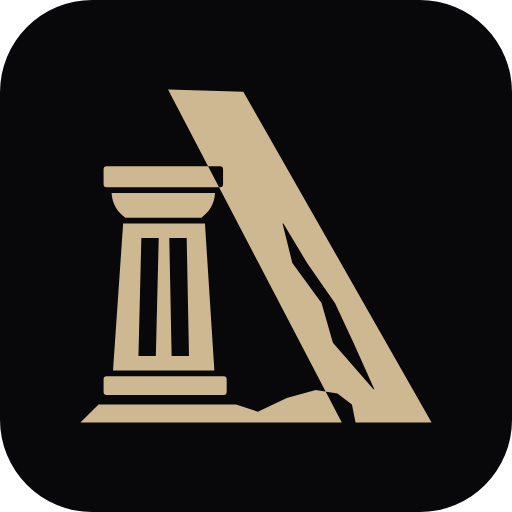
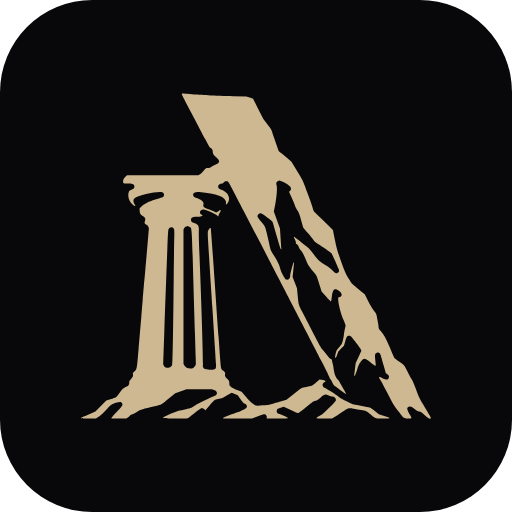
Знак Askesis: вектор снят с исходного эскиза, а не перерисован
Полный знак - трассировка присланного эскиза (potrace), убран только
мелкий шум. Упрощённый для 16–40 px - тот же контур с залитыми узкими
трещинами и бороздками и без летящих осколков. Favicon и иконки PWA
пересобраны из него.

diff --git a/client/src/components/BrandMark.jsx b/client/src/components/BrandMark.jsx
@@ -1,6 +1,7 @@
 // Знак Askesis: дорическая колонна и наклонённая треснувшая глыба вместе
 // складываются в «А», у основания камни. Одноцветный, цвет берёт из
-// currentColor. Пути сгенерированы по эскизу (координаты исходника 1254 px).
+// currentColor. Пути — трассировка исходного эскиза (potrace, координаты
+// исходника 1254 px), упрощённый — тот же контур с залитыми узкими щелями.
 //
 // full — полный знак, от 48 px и крупнее (вход, лендинг, подвал);
 // simple — упрощённый для 16–40 px: без осколков и мелких трещин, детали
@@ -8,12 +9,12 @@
 
 const MARKS = {
   full: {
-    viewBox: '130 150 1000 940',
-    d: 'M360 212L404 228L436 272L394 254ZM314 292L368 298L384 324L338 318ZM267 396H529Q534 396 534 401V417Q534 422 529 422H267Q262 422 262 417V401Q262 396 267 396ZM276 430H558C556 452 542 470 524 484H318C300 470 286 452 276 430ZM296 444Q417 452 538 444L533 454Q417 462 301 454ZM311 463Q417 470 523 463L516 472Q417 478 318 472ZM318 490H522Q526 490 526 494V498Q526 502 522 502H318Q314 502 314 498V494Q314 490 318 490ZM323 508H517Q520 508 520 511V519Q520 522 517 522H323Q320 522 320 519V511Q320 508 323 508ZM322 530L518 530L538 934L302 934ZM345.5 560.4225742574257Q345.5 552 353.9 552Q362.4 552 362.4 560.4225742574257L352 902.0625742574257Q352 912 342.1 912Q332.1 912 332.1 902.0625742574257ZM378.5 560.4225742574257Q378.5 552 387 552Q395.4 552 395.4 560.4225742574257L391 902.0625742574257Q391 912 381 912Q371.1 912 371.1 902.0625742574257ZM411.6 560.4225742574257Q411.6 552 420 552Q428.4 552 428.4 560.4225742574257L429.9 902.0625742574257Q429.9 912 420 912Q410.1 912 410.1 902.0625742574257ZM444.6 560.4225742574257Q444.6 552 453 552Q461.5 552 461.5 560.4225742574257L468.9 902.0625742574257Q468.9 912 459 912Q449 912 449 902.0625742574257ZM477.6 560.4225742574257Q477.6 552 486.1 552Q494.5 552 494.5 560.4225742574257L507.9 902.0625742574257Q507.9 912 497.9 912Q488 912 488 902.0625742574257ZM297 938H543Q548 938 548 943V948Q548 953 543 953H297Q292 953 292 948V943Q292 938 297 938ZM282 957H558Q562 957 562 961V973Q562 977 558 977H282Q278 977 278 973V961Q278 957 282 957ZM602 180L663.2 286.6L663.6 299.5L686 330.8L785.6 499.7L787.4 517.2L813.4 552.9L918.2 730.6L918.8 748.1L952 792.7L1040.6 943.7L1112 1068L912 1068L765.9 798.6L762.9 780.8L736.7 744.7L571.1 439.4L563.8 412.8L541.9 385.5L425 170ZM576.8 191.5L567.5 229.8L577.7 265L564.8 307.8L573.7 351.9L570.2 386.7L572 386.8L580.1 352.1L575.6 308.4L584.9 265.4L576.4 230.3L578.6 191.6ZM587.3 307.2L622.1 325.3L642.3 323.6L685.1 355.5L686.6 358.1L648.3 334.3L630.1 339.6L589.3 310.7ZM680.5 443.6L690.8 487.6L711.7 549.7L752.5 594.8L762.6 647.9L819.3 710.9L830.2 773L883.2 827L898.6 889.3L950.1 943L968.2 996.5L1004.5 1027.8L1006.5 1027.9L999.9 996.7L973.7 943.2L941.6 889.7L910.3 827.3L876.4 773.8L844.1 711.5L800.4 648.9L773.1 595.4L741.5 550.6L707.4 488.2L682.4 443.6ZM749.2 725.9L784.1 744.7L803.2 741.5L834.1 762.9L835.6 765.6L808.2 750.5L790 755.5L750.6 728.6ZM140 1070L196 1034L240 1004L282 984L560 984L600 1008L628 1034L660 1018L712 1000L764 974L806 960L836 972L868 994L900 1020L918 1070ZM200 1056L262 1022L300 1012L252 1040ZM330 1048L402 1004L450 996L380 1040ZM470 1056L520 1020L560 1012L530 1050ZM690 1060L740 1024L790 1004L760 1040ZM800 1056L838 1012L858 1006L836 1052Z',
+    viewBox: '122 112 1015 1015',
+    d: 'M146.0 1067.7C146.0 1067.0 147.9 1065.7 150.2 1064.8C152.6 1063.9 161.5 1060.2 170.0 1056.5L185.5 1049.8L200.5 1034.5L215.5 1019.2L227.0 1015.6C243.8 1010.2 243.2 1010.6 249.5 1001.7C260.1 986.7 261.6 985.3 269.8 981.4L277.5 977.7L306.5 977.9C336.0 978.1 341.5 978.4 343.8 980.3C344.7 981.0 346.2 980.9 348.8 979.9C353.1 978.3 487.2 978.4 505.5 980.0C544.1 983.6 555.1 984.2 557.9 983.1C560.4 982.0 561.3 982.2 566.6 985.4C569.8 987.4 573.0 989.0 573.5 989.0C574.0 989.0 578.0 990.4 582.2 992.1L589.9 995.2L600.2 1007.3C611.6 1020.7 612.7 1021.8 622.0 1029.1L628.5 1034.2L633.5 1033.6C636.2 1033.2 644.6 1032.7 652.0 1032.3C660.0 1032.0 666.5 1031.2 668.1 1030.4C669.5 1029.7 680.4 1026.5 692.2 1023.2L713.7 1017.3L733.1 1001.8C757.9 982.0 755.3 983.4 770.8 981.2C780.4 979.8 784.7 978.7 786.3 977.3C787.5 976.3 792.2 972.1 796.8 968.1L805.1 960.7L809.7 961.4C817.5 962.4 822.1 964.0 821.8 965.5C821.3 967.5 810.9 975.0 808.5 975.0C807.4 975.0 804.1 976.1 801.2 977.5C798.2 978.9 795.2 980.0 794.4 980.0C793.6 980.0 793.0 980.6 793.0 981.3C793.0 982.3 796.8 982.9 807.6 983.8L822.1 984.9L832.1 991.2C837.6 994.7 844.8 999.4 848.0 1001.8C851.2 1004.1 854.2 1006.0 854.6 1006.0C855.1 1006.0 857.0 1007.4 858.9 1009.2C860.7 1010.9 868.1 1015.2 875.3 1018.7C882.5 1022.2 889.7 1026.1 891.4 1027.3C893.2 1028.6 896.7 1029.7 900.0 1030.1C903.0 1030.4 913.1 1032.3 922.5 1034.2C931.9 1036.2 941.2 1038.1 943.2 1038.4C945.9 1038.9 950.1 1041.6 958.1 1048.2L969.2 1057.2L984.1 1061.8C1004.7 1068.0 1004.2 1069.0 980.4 1069.0C959.0 1069.0 961.4 1069.8 946.3 1057.5L935.0 1048.2L925.2 1046.5C919.9 1045.6 909.5 1043.8 902.1 1042.4C885.0 1039.3 885.5 1039.3 879.0 1043.7C876.0 1045.8 865.9 1052.3 856.6 1058.2L839.8 1069.0L818.4 1069.0C793.2 1069.0 792.8 1068.7 805.8 1061.5C813.4 1057.2 817.2 1053.9 835.9 1035.2C847.8 1023.3 856.9 1013.5 856.4 1013.1C855.4 1012.1 841.9 1008.0 839.8 1008.0C839.1 1008.0 834.5 1006.4 829.6 1004.5C819.3 1000.5 820.2 1000.2 808.9 1010.1C801.2 1016.9 796.0 1020.0 792.2 1020.0C790.0 1020.0 788.8 1020.9 766.3 1039.1C757.1 1046.6 748.5 1053.3 747.2 1053.9C745.2 1055.0 742.7 1054.0 725.6 1045.5L706.3 1035.9L696.4 1039.5C691.0 1041.5 682.9 1044.5 678.5 1046.2C674.1 1047.8 665.8 1050.9 660.0 1053.0C654.2 1055.1 642.5 1059.5 634.0 1062.9L618.6 1069.0L578.3 1069.0C534.3 1069.0 531.9 1068.6 544.8 1064.1C548.5 1062.8 557.6 1059.4 565.0 1056.5C572.4 1053.6 580.3 1051.0 582.4 1050.7C584.5 1050.4 587.3 1049.1 588.6 1047.9C590.1 1046.5 595.3 1044.5 602.7 1042.5C610.6 1040.4 614.6 1038.9 614.8 1037.9C615.0 1036.9 611.8 1034.6 605.1 1031.2C594.6 1025.6 592.5 1023.7 584.3 1011.8L579.2 1004.3L570.9 1001.0L562.7 997.7L554.6 1002.0C550.1 1004.4 544.2 1007.8 541.5 1009.5C538.8 1011.3 534.9 1013.0 532.9 1013.3C530.9 1013.6 525.6 1014.8 521.2 1016.0L513.1 1018.2L501.5 1032.1C487.6 1048.7 485.7 1049.9 490.6 1038.9C494.7 1029.8 493.9 1029.8 478.3 1039.9C473.3 1043.2 463.3 1050.6 456.3 1056.3C449.2 1062.0 442.4 1067.2 441.3 1067.9C438.0 1069.6 372.0 1069.5 372.0 1067.7C372.0 1066.4 400.3 1051.9 402.7 1052.0C403.4 1052.0 406.8 1050.9 410.2 1049.6C413.7 1048.3 423.2 1045.8 431.5 1044.1C447.7 1040.6 450.6 1039.4 465.0 1030.3C475.0 1023.9 496.8 1013.4 513.4 1006.9C518.9 1004.8 525.1 1001.8 527.2 1000.4C531.1 997.7 532.2 995.0 529.5 995.0C528.6 995.0 523.1 993.4 517.1 991.5L506.3 988.0L471.3 988.0L436.3 988.0L430.2 990.5C426.8 991.9 420.3 994.1 415.6 995.4L407.2 997.9L388.8 1013.3C378.8 1021.7 369.5 1029.2 368.3 1029.8C366.3 1030.9 330.2 1039.7 316.2 1042.5C312.6 1043.2 308.9 1044.7 307.6 1045.9C304.9 1048.4 290.0 1057.0 288.3 1057.0C287.6 1057.0 287.0 1056.6 287.0 1056.1C287.0 1054.3 304.9 1035.3 311.9 1029.7C318.2 1024.5 319.6 1022.8 323.9 1014.2C326.6 1008.9 332.0 999.8 335.9 994.1C339.8 988.3 342.8 983.4 342.6 983.2C342.0 982.7 338.0 984.9 334.0 988.0C332.1 989.5 327.7 992.4 324.2 994.5C318.0 998.1 310.9 1007.0 308.0 1014.6C306.7 1017.9 291.3 1044.8 288.6 1048.5C287.4 1050.2 284.9 1054.1 283.0 1057.4C280.8 1061.4 278.3 1064.1 275.1 1066.1L270.5 1069.0L250.0 1068.8C235.0 1068.6 229.5 1068.2 229.5 1067.3C229.5 1066.7 241.5 1053.8 256.3 1038.6C271.0 1023.5 282.6 1010.9 282.0 1010.5C281.5 1010.2 277.8 1011.3 273.8 1013.1C269.8 1014.8 264.8 1016.9 262.7 1017.6C260.5 1018.4 257.2 1019.9 255.2 1020.9C253.1 1021.9 248.4 1023.5 244.6 1024.5C232.3 1027.5 229.3 1029.5 216.9 1043.0C205.8 1055.0 200.7 1059.6 191.1 1066.0L186.7 1069.0L166.3 1069.0C150.4 1069.0 146.0 1068.7 146.0 1067.7ZM659.0 1067.7C659.0 1066.8 665.0 1064.5 675.9 1061.1L692.9 1055.9L700.2 1058.9C725.4 1069.1 725.6 1069.0 688.5 1069.0C664.5 1069.0 659.0 1068.8 659.0 1067.7ZM1038.2 1067.2C1036.0 1065.4 1029.0 1056.7 1025.0 1051.0C1023.7 1049.1 1019.9 1044.2 1016.7 1040.2C1013.4 1036.2 1007.8 1027.2 1004.2 1020.2C985.3 983.4 976.8 967.3 973.1 961.6C970.0 956.5 969.2 954.0 971.0 954.0C971.5 954.0 981.9 958.7 994.2 964.4C1006.5 970.1 1017.6 975.1 1019.0 975.5C1023.4 976.9 1034.6 982.8 1036.0 984.5C1036.8 985.5 1040.9 988.9 1045.1 992.1C1051.6 997.0 1053.4 999.1 1057.0 1005.7C1059.4 1010.0 1062.5 1015.3 1064.0 1017.5C1068.1 1023.6 1081.2 1049.1 1080.6 1049.7C1079.7 1050.6 1078.2 1049.6 1059.0 1036.1C1039.5 1022.4 1034.5 1019.2 1033.5 1020.2C1033.2 1020.5 1037.1 1027.9 1042.3 1036.6C1057.8 1062.7 1059.8 1066.4 1059.3 1067.7C1058.5 1069.9 1040.8 1069.5 1038.2 1067.2ZM1102.4 1065.2C1088.8 1054.7 1083.4 1046.2 1074.5 1021.5C1069.7 1008.1 1061.1 991.3 1056.9 987.1C1053.9 984.2 1041.4 975.8 1028.7 968.3C1013.1 959.1 990.6 945.0 989.3 943.7C988.7 943.0 985.0 931.0 981.0 917.0C977.1 903.0 973.4 890.5 972.7 889.4C966.7 878.8 952.5 855.9 951.4 854.9C948.8 852.7 948.8 854.8 951.4 860.2C953.3 864.1 954.4 869.4 955.9 880.5C960.2 913.1 961.1 922.3 960.2 923.2C959.3 924.1 948.2 916.1 934.9 904.8C931.8 902.2 929.0 900.0 928.7 900.0C928.4 900.0 924.9 904.3 921.0 909.5L913.9 919.0L908.8 935.0C905.6 945.0 903.2 951.0 902.3 951.0C900.6 951.0 900.6 951.6 903.1 932.1L905.1 915.5L913.1 898.6C917.4 889.3 921.0 881.2 921.0 880.6C921.0 877.7 887.1 832.8 885.2 833.2C883.5 833.5 881.4 839.1 876.3 855.5L872.7 867.5L864.9 875.5L857.1 883.5L854.0 892.2C852.0 897.6 850.3 901.0 849.4 901.0C847.6 901.0 847.6 899.8 849.5 890.8C851.7 880.3 851.5 880.6 858.7 872.2C862.3 868.0 865.9 863.5 866.7 862.3C868.5 859.6 871.6 846.5 872.4 838.0C872.8 834.4 874.0 826.9 875.2 821.3L877.3 811.1L874.7 804.3C873.3 800.6 869.8 791.4 867.0 784.1C864.1 776.7 861.2 767.4 860.5 763.6C857.5 747.6 855.8 734.8 856.7 733.9C857.2 733.4 865.6 739.1 877.1 748.0L896.5 762.9L904.8 780.2C909.4 789.7 914.5 801.1 916.1 805.5C917.8 809.9 920.2 815.1 921.5 817.0C922.8 818.9 925.2 823.5 926.9 827.2C929.6 833.3 932.0 835.9 932.0 832.8C932.0 831.6 929.1 815.2 926.0 799.3C923.1 784.3 923.2 784.1 932.4 792.6C947.0 806.0 951.0 809.5 958.9 815.6C963.5 819.1 967.8 822.0 968.5 822.0C970.3 822.0 975.1 827.6 983.0 839.0C989.3 848.1 991.8 853.1 1001.1 875.5L1011.9 901.5L1022.7 909.3C1040.8 922.2 1039.6 920.9 1047.7 937.4C1051.7 945.7 1057.1 955.7 1059.5 959.5C1062.5 964.1 1066.9 974.3 1072.4 989.1C1079.6 1008.3 1082.2 1014.0 1089.7 1026.6C1094.6 1034.8 1100.1 1044.2 1102.0 1047.5C1103.9 1050.8 1107.2 1056.4 1109.5 1060.0C1111.8 1063.6 1113.5 1067.1 1113.2 1067.8C1112.4 1070.2 1107.3 1069.0 1102.4 1065.2ZM863.0 990.4C854.5 984.0 846.9 978.6 846.3 978.3C845.6 978.0 836.2 960.4 825.4 939.1C806.0 901.1 776.4 843.8 753.7 800.3C747.3 788.2 721.0 737.3 695.2 687.3C669.4 637.4 645.7 591.5 642.5 585.5C639.3 579.5 628.8 559.2 619.0 540.5C552.0 412.1 536.0 381.1 536.0 379.4C536.0 377.8 538.1 377.5 539.5 378.9C540.1 379.4 545.7 382.7 552.2 386.2L563.8 392.6L575.2 405.5C592.6 425.2 593.3 424.2 578.4 401.1L568.6 385.8L556.9 377.7C550.5 373.2 543.3 368.1 540.8 366.4C537.2 363.9 535.9 362.1 534.5 358.1L532.8 353.0L530.1 353.2C525.6 353.5 511.8 341.2 510.4 335.5C509.1 330.2 513.9 311.4 517.1 309.4C518.2 308.7 530.9 320.3 532.8 323.7C534.2 326.2 534.8 326.4 536.7 325.2C537.6 324.6 536.1 320.8 531.2 311.3L524.5 298.2L526.9 288.8C531.0 273.1 531.6 272.1 546.1 263.1C566.4 250.3 568.6 248.5 574.7 239.6C586.7 222.2 593.5 213.0 594.9 212.5C596.5 211.9 611.6 221.2 617.5 226.4C634.7 241.7 636.0 241.9 627.1 227.9C619.3 215.5 617.4 213.3 613.5 211.2C611.7 210.3 607.2 206.7 603.5 203.3L596.8 197.1L597.5 192.0C597.9 189.0 597.8 187.0 597.2 187.0C595.4 187.0 589.1 195.6 576.6 215.2C569.9 225.8 562.9 235.9 561.3 237.5C558.7 240.2 549.1 246.3 534.8 254.5C532.2 256.0 528.5 259.3 526.5 262.1C521.7 268.8 520.6 268.5 511.1 258.1L502.9 249.2L496.0 232.1C487.1 210.1 488.6 212.3 477.7 205.2C472.6 201.8 467.3 197.6 466.1 195.9C464.5 193.8 463.5 193.2 462.7 193.8C461.9 194.5 459.1 193.2 454.0 189.9C444.4 183.5 439.0 180.7 438.2 181.5C437.8 181.9 438.3 182.8 439.3 183.5C441.0 184.7 452.0 194.4 470.9 211.1L479.5 218.8L485.9 236.3L492.2 253.8L498.7 261.1C508.6 272.4 514.0 280.1 514.0 283.0C514.0 286.9 511.2 299.5 509.1 304.7C508.1 307.4 506.7 312.1 506.0 315.3C505.0 319.6 504.3 321.0 503.1 320.8C502.2 320.6 497.2 312.2 491.2 300.5C480.3 279.4 458.3 237.5 436.8 197.2C429.5 183.7 424.1 172.3 424.4 171.5C425.0 169.7 425.1 169.7 446.0 171.6C455.1 172.4 463.4 173.1 464.5 173.1C465.6 173.2 480.4 174.1 497.5 175.2C514.5 176.3 545.2 177.4 565.5 177.7L602.6 178.3L612.0 181.4L621.4 184.5L635.6 212.7L649.8 240.9L660.9 255.1L671.9 269.3L675.8 281.4C678.0 288.1 682.3 300.7 685.5 309.5C688.6 318.3 691.6 326.8 692.0 328.3C693.2 332.0 694.8 334.0 696.9 334.0C697.8 334.0 703.5 338.3 709.5 343.6C715.6 348.9 721.9 354.3 723.7 355.7C725.5 357.1 729.6 362.5 732.8 367.8C736.0 373.2 743.4 385.1 749.1 394.5C756.0 405.9 760.5 414.7 762.8 421.0C764.7 426.2 770.9 443.3 776.6 458.9C786.0 484.4 788.0 491.0 786.5 491.0C783.3 491.0 770.7 473.9 761.0 456.3C759.3 453.2 756.0 450.3 748.2 444.9C742.5 440.9 731.3 432.9 723.5 427.0L709.2 416.2L698.8 412.7C693.2 410.8 684.2 407.6 679.0 405.7C673.8 403.8 661.7 399.4 652.1 396.0L634.8 389.7L632.1 385.3C630.7 382.8 625.9 375.2 621.6 368.2C617.2 361.2 612.0 352.6 610.1 349.0C607.1 343.7 605.5 342.0 601.0 339.5C598.0 337.8 587.2 331.6 577.0 325.8C554.2 312.7 551.2 311.7 559.5 319.7C562.9 322.9 568.9 328.2 572.9 331.5C577.0 334.8 583.0 339.9 586.3 342.8C589.6 345.6 592.6 348.0 593.1 348.0C594.1 348.0 602.2 360.0 616.4 382.8C622.6 392.7 628.2 400.5 629.4 401.0C630.5 401.5 643.6 406.7 658.5 412.6C673.4 418.5 685.9 423.6 686.3 424.0C688.9 426.3 687.0 454.4 682.9 475.4L678.8 496.2L687.3 519.9L695.8 543.5L697.4 569.0C698.3 583.0 699.3 596.0 699.6 597.8C699.9 600.1 699.7 601.0 698.7 601.0C697.4 601.0 696.2 597.5 688.4 570.0C686.6 563.7 683.3 552.3 681.1 544.7C678.9 537.1 676.6 529.1 676.0 527.0L674.9 523.1L659.7 512.2C651.3 506.3 642.2 500.0 639.4 498.3C636.6 496.6 628.3 490.8 620.9 485.3C607.0 475.0 603.0 472.4 603.0 473.7C603.0 474.6 625.0 502.1 639.5 519.4C655.4 538.3 654.6 536.7 659.1 555.0C661.3 564.1 664.6 578.7 666.4 587.6L669.7 603.7L674.2 610.1C685.1 625.5 696.0 647.0 696.0 653.1C696.0 656.8 718.8 702.0 720.7 702.0C722.5 702.0 722.8 699.7 723.5 685.5C724.1 670.9 731.3 637.1 733.8 637.0C734.6 637.0 734.9 638.1 734.5 640.8C734.3 642.8 733.3 651.9 732.4 661.0L730.7 677.5L736.7 693.0L742.8 708.5L745.1 731.5L747.3 754.5L763.3 785.0C772.1 801.8 785.3 827.4 792.6 842.0C808.2 873.1 810.9 877.1 835.2 904.6C838.5 908.3 840.0 910.9 840.0 912.8C840.0 914.3 840.6 916.4 841.4 917.5C842.1 918.6 843.0 922.0 843.3 925.0C845.4 944.0 848.8 953.6 856.1 961.5C858.2 963.8 860.0 966.2 860.0 966.7C860.0 967.2 864.3 974.8 869.5 983.5C874.8 992.3 878.9 1000.0 878.8 1000.7C878.6 1001.5 872.2 997.3 863.0 990.4ZM279.8 973.4C279.3 973.0 279.0 970.9 279.0 968.7C279.0 961.1 293.3 951.0 304.1 951.0C305.2 951.0 306.0 950.3 306.0 949.4C306.0 948.0 305.0 947.8 298.5 948.2C287.0 949.0 285.8 945.7 294.5 937.6L300.1 932.5L304.5 880.0C306.9 851.1 310.5 809.0 312.5 786.5C314.4 764.0 316.2 741.7 316.4 737.0C316.7 732.3 318.0 716.6 319.4 702.0C320.8 687.4 322.4 670.1 323.0 663.5C323.5 656.9 324.6 644.3 325.4 635.5C326.2 626.7 328.3 602.0 330.0 580.5C333.8 533.0 332.9 537.7 339.3 534.0C366.0 518.6 441.0 517.1 465.6 531.5C471.1 534.7 472.3 538.5 471.4 550.2C471.1 554.7 471.7 581.5 472.9 609.5C477.6 723.2 479.5 779.6 481.5 859.0C482.3 892.3 483.0 920.5 483.0 921.7C483.0 922.9 481.9 925.2 480.5 926.8C479.1 928.5 478.0 930.2 478.0 930.8C478.0 932.0 486.7 932.8 507.3 933.6C525.6 934.3 526.9 933.9 522.3 928.7L519.3 925.3L518.6 915.9C518.3 910.7 517.1 891.6 516.0 873.5C513.7 835.0 510.7 788.4 508.5 758.0C507.7 746.2 505.9 718.7 504.5 697.0C503.1 675.3 500.7 636.1 499.0 610.0C495.2 549.8 495.2 551.4 499.0 546.2C502.0 542.0 503.4 541.2 504.5 543.0C504.8 543.5 508.4 592.0 512.5 650.7C520.1 760.9 522.6 795.4 526.1 843.5C529.6 891.8 532.0 926.4 532.0 929.2C532.0 931.3 533.2 932.8 537.5 936.0C543.7 940.6 546.0 943.8 543.9 945.1C543.1 945.6 541.9 945.3 541.0 944.5C536.5 940.4 442.5 939.4 393.0 942.9C362.2 945.1 361.0 945.2 361.0 946.4C361.0 947.3 368.6 948.0 387.8 948.8C402.5 949.5 427.1 951.2 442.5 952.6L470.4 955.2L476.3 958.1C483.2 961.6 483.2 963.4 476.4 963.7C473.7 963.9 464.1 964.6 455.0 965.5C445.9 966.3 428.1 967.2 415.5 967.5C349.9 969.1 303.1 971.3 285.0 973.6C282.5 973.9 280.2 973.8 279.8 973.4ZM454.3 929.6C456.1 928.9 458.9 926.7 460.4 924.9L463.3 921.5L462.6 897.5C462.3 884.3 461.3 853.9 460.5 830.0C459.7 806.1 457.9 746.2 456.5 697.0C453.0 571.4 452.1 546.0 451.0 544.0C447.7 537.9 439.1 535.1 434.2 538.6C428.7 542.4 429.0 530.1 429.0 732.6L429.0 919.3L431.2 922.7C435.2 929.3 446.8 932.8 454.3 929.6ZM337.7 928.0C342.8 924.9 343.8 922.5 344.4 910.5C344.8 904.5 346.0 883.1 347.0 863.0C348.1 842.9 349.7 815.0 350.5 801.0C351.3 787.0 352.9 758.0 354.0 736.5C355.1 715.0 357.6 667.4 359.5 630.5C363.5 553.2 363.6 549.3 361.4 546.2C359.4 543.3 356.3 543.7 353.7 547.1C352.1 549.3 351.6 552.3 350.9 563.1C346.9 623.3 342.6 687.4 341.0 712.0C339.0 740.9 338.1 753.0 330.0 863.9C325.3 928.4 325.4 923.1 328.6 926.9C331.6 930.5 333.3 930.7 337.7 928.0ZM392.0 927.0C394.2 925.9 396.6 923.7 397.4 922.2C398.9 919.3 399.9 865.7 402.0 678.0C402.5 628.2 403.2 578.4 403.5 567.3L404.0 547.0L402.0 543.0C399.7 538.6 396.3 537.1 392.5 538.8C388.3 540.7 386.7 544.5 386.3 553.4C377.4 771.9 372.5 918.5 374.1 922.2C376.7 928.6 384.7 930.7 392.0 927.0ZM959.1 800.2L951.8 785.5L937.7 775.0C930.0 769.2 920.0 761.1 915.6 756.9C911.1 752.7 905.6 748.3 903.3 747.1C901.0 746.0 897.6 743.7 895.8 742.2C894.0 740.6 890.2 738.1 887.5 736.5C881.0 732.7 875.4 728.8 858.6 715.7C847.4 707.0 844.4 705.2 843.5 706.2C842.5 707.2 837.9 738.6 838.0 743.8C838.0 746.9 834.7 744.1 823.2 731.5L810.8 718.0L806.3 703.2C797.7 674.9 797.5 674.5 791.2 666.7C775.5 647.4 773.3 644.2 770.0 635.9C763.8 620.3 757.8 608.6 753.4 603.8C749.4 599.5 748.6 597.9 747.8 592.5C747.6 591.5 745.7 589.4 743.5 587.9C740.1 585.6 739.6 584.7 739.8 582.1C740.0 580.0 739.1 577.1 737.1 573.5C733.9 567.8 733.4 566.0 734.9 566.0C735.6 566.0 753.5 580.2 774.6 597.5C776.9 599.4 783.9 607.7 790.0 615.9C802.1 631.9 804.1 633.7 824.7 646.4C831.6 650.7 836.1 654.4 843.0 662.0C850.7 670.3 853.0 672.2 857.2 673.6C859.9 674.5 867.2 678.5 873.3 682.6C884.0 689.7 886.0 690.8 886.0 689.3C886.0 688.0 872.2 670.6 864.8 662.5L857.5 654.5L848.6 634.0C843.8 622.7 839.0 612.7 838.1 611.7C836.2 609.4 812.8 593.4 800.9 586.2C793.2 581.4 791.6 580.0 785.9 571.8C782.4 566.8 777.9 561.1 775.9 559.1C773.9 557.1 769.5 552.2 766.1 548.2L759.9 541.0L754.9 522.4C749.7 502.9 748.0 498.5 742.3 490.7C740.4 488.1 738.2 483.8 737.5 481.2C736.9 478.6 732.8 468.7 728.5 459.2C724.3 449.7 721.0 441.6 721.3 441.3C721.9 440.7 723.3 441.9 742.1 459.0C747.8 464.3 754.0 469.9 755.8 471.5C757.7 473.2 760.0 475.4 761.0 476.5C773.4 489.7 783.6 500.0 784.3 500.0C784.8 500.0 784.9 498.7 784.5 497.0C784.1 495.4 784.1 493.7 784.4 493.2C785.1 492.1 795.7 501.8 821.8 527.6L842.1 547.6L845.5 564.1C853.6 603.4 854.6 607.1 865.4 636.5C876.3 665.9 878.5 670.7 887.1 683.9C889.8 688.0 892.0 691.8 892.0 692.5C892.0 694.2 907.1 707.4 925.8 721.9C929.5 724.7 931.5 728.0 939.1 743.3C945.2 755.4 950.4 764.2 955.1 770.3C958.9 775.3 962.3 780.3 962.5 781.5C963.8 787.1 969.0 813.4 969.0 814.1C969.0 817.9 965.3 812.7 959.1 800.2ZM322.4 530.5C318.6 524.7 326.1 513.5 336.8 508.7C366.7 495.3 427.5 492.3 468.0 502.2C472.7 503.4 477.8 505.0 479.4 505.8L482.3 507.2L479.9 509.1L477.5 511.0L438.0 510.7C404.3 510.6 396.6 510.8 385.5 512.3C359.7 516.0 334.2 524.2 329.3 530.3C326.7 533.7 324.5 533.7 322.4 530.5ZM521.9 507.4C519.0 504.3 502.0 495.9 493.0 493.1C456.8 481.8 395.9 481.1 355.5 491.4C338.7 495.7 325.6 501.2 320.3 506.3C314.8 511.4 309.3 507.0 307.9 496.2C307.0 489.4 308.0 487.2 314.8 480.8C332.2 464.5 371.2 454.5 417.0 454.5C454.1 454.5 473.2 458.7 481.9 468.5C486.9 474.2 485.3 478.0 477.2 479.6C472.7 480.5 473.2 482.7 478.2 484.0C489.1 486.7 503.2 491.6 510.9 495.2C520.3 499.7 522.2 499.6 526.8 495.0C530.5 491.3 532.0 491.2 532.0 494.6C532.0 496.3 530.8 498.4 528.4 500.6C525.5 503.2 524.9 504.4 525.4 506.4C526.3 509.9 524.7 510.4 521.9 507.4ZM288.2 476.9C282.4 472.3 277.4 463.4 276.4 455.9C275.6 450.3 277.5 440.7 279.8 438.7C282.1 436.7 296.7 431.6 306.0 429.6C326.6 425.2 460.5 424.8 500.5 429.1C529.5 432.1 546.7 439.7 553.1 452.2C556.7 459.2 555.2 468.7 549.7 474.8C546.7 478.1 545.8 477.5 546.5 472.6C547.8 464.5 542.1 458.5 528.0 453.1C503.5 443.6 468.9 440.3 404.0 441.3C346.2 442.1 320.3 445.9 298.2 456.8C289.7 460.9 287.6 468.5 293.0 475.6C298.2 482.4 295.9 483.1 288.2 476.9ZM263.2 417.8C259.5 414.1 263.4 403.8 270.5 398.2L273.3 396.0L372.5 396.0L471.7 396.0L475.7 393.1C477.8 391.6 482.0 387.3 484.9 383.7C490.7 376.4 492.3 375.5 498.4 376.4C502.1 377.0 502.9 376.7 505.0 374.4C507.9 371.3 518.0 366.0 521.0 366.0C524.2 366.0 524.4 368.3 521.5 375.2C520.0 378.6 518.1 383.3 517.3 385.5C516.5 387.7 515.0 390.4 514.1 391.5C511.0 394.9 512.5 396.0 520.0 396.0C523.8 396.0 527.6 396.3 528.5 396.6C530.4 397.4 539.9 415.9 539.3 417.8C538.6 419.5 265.0 419.6 263.2 417.8ZM698.0 382.5C698.0 381.1 696.9 377.3 695.5 374.1C692.8 367.7 689.2 351.1 688.5 342.2C687.8 332.5 685.4 324.9 681.0 319.0C678.8 316.0 674.5 308.6 671.6 302.5L666.2 291.5L652.5 277.0C645.0 269.0 638.4 262.4 637.9 262.2C636.0 261.5 637.2 265.8 645.0 288.1C652.8 310.5 654.2 316.0 651.9 316.0C651.3 316.0 647.4 314.2 643.4 311.9C639.3 309.7 635.5 308.0 634.9 308.2C633.6 308.6 637.0 311.6 649.8 321.0C654.8 324.7 662.5 331.1 666.8 335.1L674.5 342.5L685.5 363.7C691.6 375.4 696.8 385.0 697.2 385.0C697.7 385.0 698.0 383.9 698.0 382.5ZM470.5 352.0C467.2 350.4 458.8 346.4 451.8 343.1C444.7 339.8 439.0 336.6 439.0 335.9C439.0 335.2 441.0 332.1 443.3 329.1C445.7 326.0 448.2 322.5 448.9 321.2C451.0 317.3 453.5 318.5 456.9 325.0C459.9 330.7 460.8 331.5 463.7 331.1C464.4 331.0 466.1 332.6 467.6 334.7C473.8 343.9 480.0 353.6 480.0 354.2C480.0 355.7 476.4 354.8 470.5 352.0ZM335.0 308.0C323.8 297.1 318.8 291.8 319.5 291.1C320.2 290.4 324.7 290.6 333.5 291.9C340.7 293.0 349.6 294.1 353.5 294.5C359.1 295.1 363.4 296.6 374.5 301.7C382.2 305.2 390.2 308.8 392.2 309.7C398.7 312.3 397.5 313.4 385.2 316.0C380.4 317.0 371.8 319.3 366.1 320.9C360.4 322.6 354.8 324.0 353.6 323.9C352.3 323.9 345.4 318.1 335.0 308.0ZM426.0 273.5C423.5 272.8 415.2 270.6 407.5 268.6C399.8 266.5 391.9 264.3 390.0 263.7L386.5 262.5L374.8 240.0C360.3 211.9 360.2 211.6 371.3 219.2C374.7 221.6 384.6 227.1 393.5 231.5L409.5 239.5L419.7 253.0C425.4 260.4 431.1 268.4 432.4 270.6L434.7 274.8L432.6 274.7C431.4 274.7 428.5 274.2 426.0 273.5Z',
   },
   simple: {
-    viewBox: '140 150 990 940',
-    d: 'M222 372H536Q544 372 544 380V422Q544 430 536 430H222Q214 430 214 422V380Q214 372 222 372ZM236 446H522C520 478 504 500 484 514H274C254 500 238 478 236 446ZM268 530H494L520 936H240ZM318.3 570H366.3L358.3 896H310.3ZM395.5 570H443.5L449.9 896H401.9ZM222 952H546Q554 952 554 960V996Q554 1004 546 1004H222Q214 1004 214 996V960Q214 952 222 952ZM600 166L1120 1080L872 1080L392 160ZM708.3 530L735.4 639.6L816 749.9L847.4 859.7L959.4 988.3L961.9 988.3L904.6 860.1L853.4 750.2L776.6 640.1L710.6 530ZM150 1080L200 1030L580 1030L640 1050L720 1012L800 990L860 1000L900 1030L910 1080Z',
+    viewBox: '134 124 991 991',
+    d: 'M146.0 1067.7C146.0 1067.0 147.9 1065.7 150.2 1064.8C152.6 1063.9 161.5 1060.2 170.0 1056.5L185.5 1049.8L200.5 1034.5L215.5 1019.2L227.0 1015.6C243.8 1010.2 243.2 1010.6 249.5 1001.7C260.1 986.8 261.6 985.2 269.4 981.6C277.3 978.0 279.0 975.6 279.0 968.3C279.0 965.7 280.0 963.9 283.4 960.2C288.7 954.5 290.3 951.0 289.4 946.3L288.8 942.9L293.3 938.7C300.2 932.2 300.0 933.6 304.6 878.5C307.0 850.5 310.5 809.0 312.5 786.5C314.4 764.0 316.2 741.7 316.4 737.0C316.7 732.3 318.0 716.6 319.4 702.0C320.8 687.4 322.4 670.1 323.0 663.5C323.5 656.9 324.6 644.3 325.4 635.5C326.2 626.7 328.3 602.2 330.1 581.0L333.3 542.5L331.7 538.7C330.5 536.0 329.0 534.5 326.5 533.4C321.5 531.3 320.3 528.4 322.4 522.5C324.6 515.9 322.9 511.9 316.3 508.8C310.1 505.8 308.0 502.1 307.8 493.9L307.6 487.5L313.0 482.3C321.7 473.9 338.9 465.8 358.3 461.0C372.0 457.5 373.1 457.1 374.5 453.7C376.3 449.3 374.7 445.2 370.4 443.4C360.2 439.1 305.7 450.4 294.6 459.1C289.4 463.2 289.1 470.1 294.0 476.9C297.9 482.5 295.2 482.5 288.2 476.9C279.1 469.8 274.6 457.1 276.9 445.8C278.3 439.4 279.6 438.0 286.4 435.5C292.2 433.3 294.4 429.5 292.7 424.7C291.2 420.4 286.9 419.0 274.7 419.0C263.0 419.0 262.0 418.5 262.0 412.5C262.0 407.9 265.5 402.1 270.5 398.2L273.3 396.0L371.4 396.0L469.5 396.0L473.7 394.1C476.4 392.8 479.9 389.6 484.0 384.6C490.8 376.4 491.5 375.9 497.8 376.2C500.9 376.3 502.8 375.7 504.8 374.1C506.3 372.9 511.6 369.9 516.6 367.5C530.4 360.9 530.9 357.2 519.4 346.7C512.2 340.1 510.0 336.6 510.0 332.0C510.0 327.0 507.6 322.4 504.2 321.2C501.7 320.3 499.7 317.2 489.0 296.3C477.4 273.7 468.0 256.0 437.3 198.2C429.8 184.2 424.1 172.3 424.4 171.5C425.0 169.7 425.1 169.7 446.0 171.6C455.1 172.4 463.4 173.1 464.5 173.1C465.6 173.2 480.4 174.1 497.5 175.2C514.5 176.3 545.2 177.4 565.5 177.7L602.6 178.3L612.0 181.4L621.4 184.5L635.6 212.7L649.8 240.9L660.9 255.2C669.5 266.2 672.4 270.8 673.7 275.0C675.5 281.4 691.9 327.8 693.0 329.9C693.4 330.7 696.0 332.9 698.8 334.9C701.6 336.9 709.2 343.1 715.7 348.8L727.5 359.0L742.3 383.3C760.6 413.3 758.7 409.2 772.6 447.5C783.9 478.5 785.7 483.9 787.9 492.6C788.8 496.0 790.6 498.1 798.2 504.8C803.3 509.2 815.3 520.7 824.8 530.3L842.2 547.7L845.5 564.1C847.4 573.1 850.1 586.0 851.5 592.7C853.2 600.9 857.6 614.7 865.1 635.2C876.1 665.5 878.3 670.3 886.9 683.6C889.4 687.6 892.2 692.1 893.1 693.8C894.7 696.6 900.0 701.2 921.3 718.3L930.2 725.3L939.2 743.4C945.0 755.0 950.5 764.3 954.6 769.7C958.2 774.3 961.5 779.0 962.0 780.3C963.6 784.2 969.1 813.6 968.5 815.2C967.7 817.3 969.7 822.0 972.9 825.5C984.8 838.4 990.6 849.6 1011.7 900.7C1012.0 901.4 1017.9 906.0 1024.9 910.9C1040.7 922.1 1039.5 920.7 1048.0 938.0C1051.9 946.0 1057.1 955.7 1059.5 959.5C1062.5 964.1 1066.9 974.3 1072.4 989.1C1079.6 1008.3 1082.2 1014.0 1089.7 1026.6C1094.6 1034.8 1100.1 1044.2 1102.0 1047.5C1103.9 1050.8 1107.2 1056.4 1109.5 1060.0C1118.6 1074.3 1107.6 1071.8 1092.5 1056.3C1087.4 1051.0 1083.2 1048.6 1080.6 1049.6C1079.7 1049.9 1075.1 1047.4 1069.7 1043.6C1058.1 1035.5 1056.4 1034.8 1052.3 1036.5C1045.4 1039.4 1046.0 1043.1 1056.3 1060.5C1061.0 1068.6 1060.7 1069.0 1049.5 1069.0C1038.4 1069.0 1036.7 1067.8 1025.0 1051.0C1023.7 1049.1 1019.9 1044.2 1016.7 1040.2C1013.4 1036.2 1007.8 1027.2 1004.2 1020.2C985.3 983.4 976.8 967.3 973.1 961.6C967.6 952.9 968.3 952.5 980.4 957.9C990.7 962.4 994.2 962.2 996.5 956.6C998.2 952.6 996.7 948.9 992.0 945.8L988.5 943.5L982.5 922.5C979.2 910.9 975.7 898.7 974.7 895.2C972.7 887.8 969.2 885.3 963.7 887.3C958.3 889.1 957.5 893.3 959.5 908.9C960.5 917.2 960.8 922.6 960.2 923.2C959.6 923.8 955.0 920.8 948.1 915.3C929.5 900.6 928.1 900.4 919.1 912.0C914.7 917.7 913.4 920.5 908.9 934.8C905.6 945.0 903.2 951.0 902.3 951.0C900.6 951.0 900.6 951.6 903.1 932.1L905.2 915.5L913.0 898.6L920.9 881.7L919.5 878.3C917.9 874.4 916.0 871.8 902.7 854.3C892.3 840.7 889.5 838.6 884.8 840.2C880.9 841.6 879.8 843.6 876.0 856.5L872.7 867.5L864.9 875.5L857.1 883.5L853.9 892.3C851.7 898.4 850.3 901.0 849.3 900.8C847.6 900.4 847.6 900.4 849.0 893.2C851.3 881.6 852.1 880.0 858.7 872.3C862.3 868.0 865.9 863.6 866.6 862.5C868.3 859.8 871.7 845.9 872.4 838.0C872.8 834.4 874.0 827.0 875.2 821.6L877.3 811.7L875.5 806.1C874.5 803.0 873.0 798.9 872.0 797.0C862.7 778.6 853.0 734.3 858.1 733.5C868.3 731.9 869.2 723.5 860.0 716.7C846.3 706.5 841.7 710.3 838.9 734.2C838.2 740.7 837.3 745.0 836.6 745.0C836.0 745.0 830.0 738.9 823.2 731.5L810.8 718.0L806.3 703.2C797.7 674.9 797.5 674.5 791.2 666.7C775.5 647.4 773.3 644.2 770.0 635.9C763.9 620.4 757.8 608.6 753.5 603.9C751.1 601.3 748.6 597.3 747.6 594.3C746.3 590.5 745.0 588.6 742.6 587.2C739.9 585.6 739.4 584.8 739.7 582.4C740.0 580.5 739.1 577.5 737.1 573.6C733.8 567.5 733.4 566.0 734.9 566.0C735.6 566.0 753.5 580.2 774.6 597.5C776.9 599.4 783.9 607.7 790.0 615.9C802.1 631.9 804.1 633.7 824.7 646.4C830.6 650.0 836.1 654.5 840.3 659.0C847.7 667.0 850.2 668.4 854.7 666.5C859.4 664.5 860.4 660.4 857.5 654.3C856.3 651.6 851.8 641.3 847.5 631.4C843.3 621.6 839.0 612.7 838.1 611.7C836.2 609.4 812.8 593.4 800.9 586.2C793.2 581.4 791.6 580.0 785.9 571.8C782.4 566.8 777.9 561.1 775.9 559.1C773.9 557.1 769.5 552.2 766.1 548.2L759.9 541.0L754.9 522.4C749.7 503.0 748.0 498.5 742.3 490.8C740.5 488.2 738.2 483.7 737.4 480.8C736.5 477.9 732.4 467.9 728.3 458.7L720.7 441.9L722.8 440.5C725.8 438.3 727.0 434.0 725.5 430.3C723.6 425.9 711.0 417.1 701.7 413.8L693.9 411.0L690.6 412.4C686.5 414.1 684.5 418.7 686.1 422.8C688.7 429.4 687.2 453.3 682.9 475.4L678.8 496.2L687.3 519.9L695.8 543.5L697.4 569.0C698.3 583.0 699.3 596.0 699.6 597.8C699.9 600.1 699.7 601.0 698.8 601.0C697.9 601.0 695.9 595.8 693.1 586.2C690.8 578.1 687.1 565.6 685.0 558.5C682.8 551.4 679.9 541.3 678.5 536.1C677.0 530.9 675.3 525.6 674.6 524.3C673.4 521.9 648.5 503.5 644.4 502.0C638.7 499.8 632.0 506.1 634.1 511.8C634.6 513.1 638.3 518.0 642.2 522.7C655.1 537.8 654.6 536.9 659.4 556.5C661.8 566.4 665.0 580.3 666.4 587.4C669.4 601.9 670.4 604.5 679.5 618.5C688.0 631.5 694.9 645.9 696.0 652.5C697.4 660.8 709.1 683.5 712.8 684.8C718.6 686.8 724.1 681.8 723.9 674.6C723.8 670.2 732.5 637.0 733.8 637.0C734.6 637.0 734.9 638.1 734.5 640.8C734.3 642.8 733.3 651.9 732.4 661.0L730.7 677.5L736.7 693.0L742.8 708.5L744.5 726.0C747.4 756.3 746.1 752.2 763.0 784.5C771.4 800.5 784.7 826.3 792.6 842.0C803.7 864.1 808.4 872.2 813.2 878.2C832.4 901.9 834.2 903.9 837.2 904.9C839.3 905.7 840.0 906.4 839.6 907.5C839.3 908.4 839.9 911.7 840.9 914.8C841.9 917.9 843.0 922.8 843.4 925.5C845.7 944.6 848.9 953.6 856.1 961.5C858.2 963.8 860.0 966.2 860.0 966.7C860.0 967.2 864.3 974.8 869.5 983.5C874.8 992.3 878.9 1000.0 878.8 1000.7C878.6 1001.5 872.2 997.3 863.0 990.4C854.5 984.0 846.9 978.6 846.2 978.3C845.5 978.0 842.9 973.8 840.5 969.0C838.1 964.1 835.5 960.0 834.9 959.8C834.2 959.6 833.6 958.3 833.4 956.9C833.3 955.5 823.4 935.3 811.5 911.9C791.2 872.4 783.8 858.0 753.7 800.3C747.3 788.2 721.0 737.3 695.2 687.3C669.4 637.4 645.4 591.1 642.0 584.5C638.5 577.9 628.2 558.1 619.0 540.5C609.8 522.9 593.2 490.9 582.0 469.5C552.2 412.0 553.5 414.4 549.9 413.1C546.1 411.8 540.5 413.8 539.5 416.9C539.1 418.4 538.0 419.0 535.9 419.0C527.8 419.0 522.9 424.5 525.5 430.7C526.6 433.2 528.1 434.3 534.1 436.5C553.7 444.0 561.1 462.3 549.7 474.7C546.8 478.0 545.7 477.6 546.4 473.4C549.4 457.6 523.1 446.6 472.4 442.5C459.3 441.4 453.2 445.7 456.5 453.7C457.6 456.4 458.9 457.1 465.1 459.1C478.4 463.3 486.2 470.3 484.3 476.3C482.4 482.7 484.5 485.3 494.2 488.6C498.7 490.1 506.3 493.0 511.0 495.1L519.4 498.9L523.0 497.4C524.9 496.6 527.1 495.1 527.9 494.0C528.6 492.9 529.9 492.0 530.6 492.0C532.8 492.0 532.2 496.3 529.5 500.0C528.1 501.9 527.0 503.7 527.0 504.1C527.0 504.5 526.5 506.1 526.0 507.5L525.0 510.2L521.4 507.1C515.2 501.6 491.7 491.4 484.2 490.8C474.6 490.2 470.9 501.3 479.3 505.6L482.3 507.2L479.9 509.1C477.9 510.6 475.7 511.0 467.7 511.0C456.1 511.0 451.7 512.4 450.3 516.7C448.6 521.6 450.8 525.4 456.5 527.4C470.2 532.0 472.4 535.4 471.4 550.5C471.1 555.5 471.7 582.0 472.9 609.5C478.5 743.3 484.0 922.3 482.6 923.7C482.4 924.0 482.6 925.5 483.2 927.2C484.7 931.3 489.3 933.1 500.5 933.7C517.4 934.7 520.1 932.3 518.8 917.3C518.4 912.5 517.3 896.6 516.5 882.0C514.5 848.6 510.5 786.1 508.5 758.0C507.7 746.2 505.9 718.7 504.5 697.0C503.1 675.3 500.7 636.1 499.0 610.0C495.2 549.8 495.2 551.4 499.0 546.2C502.0 542.0 503.4 541.2 504.5 543.0C504.8 543.5 508.4 592.0 512.5 650.7C520.1 761.2 522.6 796.1 526.0 843.0C527.1 858.1 528.9 883.3 530.0 899.0C532.3 931.5 532.6 932.8 538.0 936.4C543.5 940.0 545.3 943.0 544.0 946.4C542.7 950.0 544.8 955.1 549.0 958.1C553.8 961.7 556.3 966.4 555.8 970.8C554.8 979.1 559.6 983.3 579.4 991.0L589.7 995.0L598.6 1005.2C603.5 1010.8 608.6 1016.8 610.0 1018.6C613.0 1022.5 625.4 1031.9 629.2 1033.2C631.0 1033.8 634.4 1033.8 638.9 1033.1C642.7 1032.5 650.0 1032.0 655.0 1032.0C660.9 1032.0 665.3 1031.5 667.8 1030.4C669.8 1029.6 681.0 1026.3 692.6 1023.1L713.7 1017.3L733.1 1001.8C757.5 982.3 755.5 983.5 768.5 981.5C784.0 979.2 784.6 978.9 795.5 969.4L805.2 960.8L809.8 961.4C822.1 963.1 824.6 965.2 818.6 968.9C811.3 973.4 812.1 980.8 820.4 984.6C823.2 985.9 830.7 990.3 837.0 994.5C843.3 998.6 849.8 1002.8 851.3 1003.8C852.9 1004.7 856.3 1007.2 859.0 1009.2C866.0 1014.7 894.6 1029.0 900.5 1029.9C903.2 1030.4 913.1 1032.3 922.5 1034.3C931.9 1036.2 941.2 1038.1 943.2 1038.4C945.9 1038.9 950.1 1041.6 958.1 1048.2L969.2 1057.2L984.1 1061.8C1004.7 1068.0 1004.2 1069.0 980.4 1069.0C959.1 1069.0 961.3 1069.7 947.4 1058.4C935.2 1048.4 933.7 1047.7 920.0 1045.6C914.2 1044.7 904.8 1043.0 899.0 1041.9C886.4 1039.5 885.1 1039.8 875.3 1046.2C871.0 1049.0 861.2 1055.3 853.6 1060.2L839.7 1069.0L818.3 1069.0C793.2 1069.0 792.8 1068.7 805.8 1061.5C813.3 1057.3 816.9 1054.3 831.8 1039.2C841.4 1029.6 849.6 1020.7 850.0 1019.4C852.0 1014.1 846.8 1008.0 840.3 1008.0C839.3 1008.0 835.0 1006.6 830.7 1004.9C820.5 1001.0 818.9 1001.4 808.5 1010.5C801.9 1016.2 798.7 1018.3 793.5 1020.0C788.8 1021.6 785.0 1023.8 779.7 1028.3C768.7 1037.7 749.8 1052.6 747.2 1053.9C745.3 1054.9 742.7 1053.9 725.7 1045.5L706.3 1036.0L699.3 1038.4C689.8 1041.6 688.4 1042.5 687.2 1045.8C685.7 1050.2 687.9 1054.5 692.7 1056.0C701.7 1058.9 718.0 1066.4 718.0 1067.7C718.0 1068.8 712.6 1069.0 688.4 1069.0L658.8 1069.0L659.3 1066.8C660.2 1063.4 657.6 1058.4 654.4 1057.3C651.9 1056.4 649.2 1057.2 635.0 1062.6L618.6 1069.0L578.3 1069.0C546.7 1069.0 538.0 1068.7 538.0 1067.8C538.0 1066.5 569.2 1054.3 580.8 1051.0C584.3 1050.0 587.9 1048.5 588.8 1047.7C589.7 1046.8 593.1 1045.2 596.3 1044.0C605.9 1040.4 607.3 1032.2 599.0 1028.0C594.7 1025.8 591.5 1022.3 584.3 1011.8L579.1 1004.2L570.9 1001.0L562.7 997.9L554.6 1002.1C550.1 1004.4 544.2 1007.8 541.4 1009.6C538.6 1011.5 535.5 1013.0 534.6 1013.0C532.2 1013.0 517.6 1016.8 514.6 1018.1C513.3 1018.7 507.2 1025.3 501.0 1032.6C489.7 1046.3 488.7 1047.2 487.6 1044.5C487.3 1043.6 485.4 1042.2 483.4 1041.4L479.8 1039.9L475.7 1041.9C473.4 1043.1 465.2 1049.1 457.4 1055.4C449.6 1061.6 442.4 1067.3 441.2 1067.9C438.0 1069.6 372.0 1069.4 372.0 1067.7C372.0 1065.0 407.2 1049.4 418.7 1047.0C434.3 1043.7 450.0 1039.6 452.5 1038.1C454.1 1037.1 459.8 1033.6 465.0 1030.3C473.7 1024.8 502.6 1010.8 514.4 1006.4C524.3 1002.7 523.8 994.2 513.4 990.3L507.5 988.1L472.5 988.1L437.5 988.0L421.9 993.4L406.3 998.7L388.4 1013.7C367.0 1031.6 369.3 1030.3 352.8 1034.1C314.1 1042.9 310.9 1043.9 304.1 1048.4C296.6 1053.4 291.1 1056.2 285.7 1057.9C283.7 1058.6 281.5 1060.1 280.9 1061.1C280.3 1062.2 277.8 1064.5 275.2 1066.1L270.6 1069.0L250.4 1069.0C237.7 1069.0 229.9 1068.6 229.5 1068.0C229.1 1067.4 235.5 1060.1 243.6 1051.7C259.4 1035.3 261.4 1032.4 259.8 1027.7C258.0 1022.7 254.2 1021.9 244.6 1024.5C231.5 1028.0 229.4 1029.4 216.9 1043.0C205.8 1055.0 200.7 1059.6 191.1 1066.0L186.7 1069.0L166.3 1069.0C150.4 1069.0 146.0 1068.7 146.0 1067.7ZM456.8 928.3C458.3 927.3 460.3 924.8 461.3 922.9L463.2 919.5L462.6 896.0C462.2 883.1 461.3 853.1 460.5 829.5C459.7 805.9 457.9 746.2 456.5 697.0C451.8 529.7 452.8 542.6 444.6 538.6L440.7 536.7L436.6 538.1C433.6 539.1 432.0 540.5 430.8 543.0L429.0 546.5L429.0 732.0L429.0 917.5L431.0 921.8C434.7 930.0 449.4 933.7 456.8 928.3ZM391.8 927.0C394.8 925.7 396.5 924.1 397.4 921.8C398.9 918.2 400.0 861.4 402.0 678.0C402.5 627.7 403.2 577.8 403.5 567.3C403.9 552.0 403.7 547.3 402.6 544.6C399.5 537.3 389.7 538.5 387.3 546.5C386.6 548.9 385.5 568.4 384.5 595.5C383.6 620.2 382.0 662.5 381.0 689.5C379.9 716.5 377.7 779.0 376.0 828.6L372.8 918.7L374.4 922.4C377.0 928.6 384.1 930.5 391.8 927.0Z',
   },
 }
 
